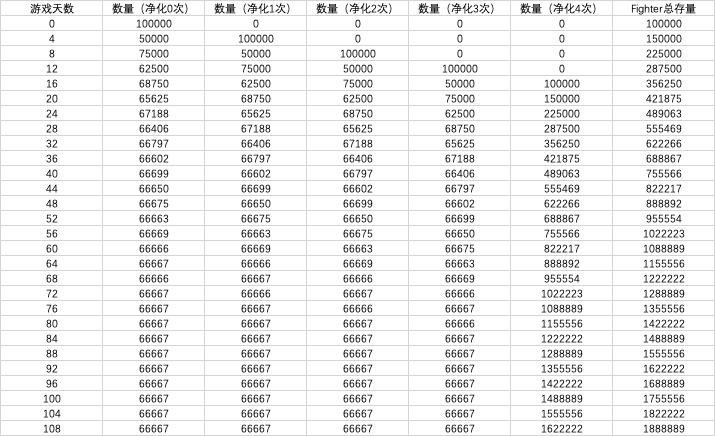
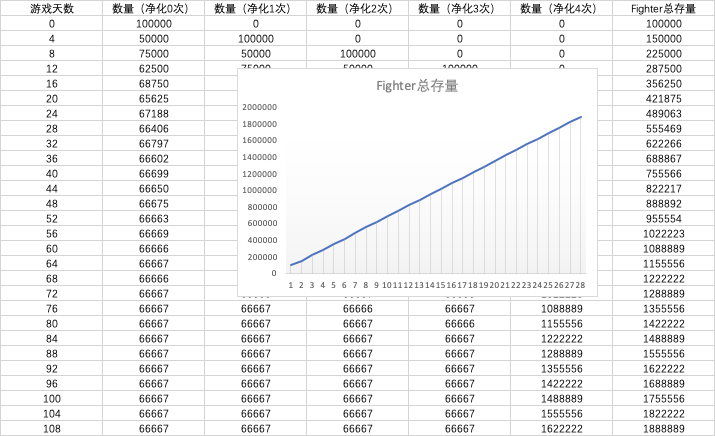
GitBook: [master] 7 pages and 21 assets modified

Changed region(s): [[0.3385, 0.1491, 0.8308, 0.6858], [0.5538, 0.2385, 0.5846, 0.4174]]

diff --git a/tokenomics/wan-jia-hui-bao-tui-yan.md b/tokenomics/wan-jia-hui-bao-tui-yan.md
@@ -1,6 +1,6 @@
 # 玩家回报推演
 
-本小节会基于上述静态经济模型来对玩家的投资回报率和回报周期进行评估推演。在推演之前，需要先对游戏中可能出现的玩家特性进行一些分类设定，以方便理解后文。
+本小节会基于上述静态和动态经济模型对玩家的投资回报率和回报周期进行评估推演。在推演之前，需要先对游戏中可能出现的玩家特性进行一些分类设定，以方便理解后文。
 
 ## 玩家设定
 
@@ -14,7 +14,7 @@
 
 ### 商人——套利者
 
-商人一般不会进行过于繁重的手动劳动，只交易市场进行Fighter和僵尸的交易，利用信息差获得利益空间。初始投资可高可低，由于没有付出和矿工一致的劳动，因此在币价稳定器的投资回报率不如矿工。但是，当币价不稳时，他们的投资回报率会非常高。
+商人一般不会进行过于繁重的手动劳动，只进行繁殖和在市场内进行Fighter和僵尸的交易，并利用信息差获得利益空间。初始投资可高可低，由于没有付出和矿工一致的劳动，因此在币价稳定器的投资回报率不如矿工。但是，当币价不稳时，他们的投资回报率会非常高。
 
 ### 老板
 
@@ -23,6 +23,16 @@
 ### 游戏公会——矿场
 
 优质的GameFi离不开游戏公会的加持。游戏公会通过整合大量的矿工资源，通过经验积累和信息差来提升公会内矿工的平均收益从而产生价值。普通矿工的效率提升点大部分由游戏公会带来。矿工不适合单打独斗，加入公会会更好的提升整体效率。
+
+### 收藏家
+
+由于游戏本身规则使得NFT具备独特性和稀有性，因此游戏中会存在只对稀有性而非功能性感兴趣的玩家，他们对独特的NFT进行投资、持有和交易。
+
+收藏家类玩家与传统游戏中的鲸鱼用户特性类似，他们是大量外部资金源源不断进入游戏生态的保证。通过自由交易，可以对游戏生态中的玩家进行财富再分配。
+
+而收藏家们的投资回报率受到游戏本身生态的制约，若以上几种基础玩家投资回报率有保证，并且游戏生态健全，则会增加此部分的投资回报率。
+
+## 回报推演
 
 ### 具体收益设定
 
@@ -35,13 +45,106 @@
 | PVP竞技类玩法 | 多 | 60 | 0 | 30-60 |
 | 总计 |  | 90 | 30 | 60-90 |
 
-## 回报推演
+### 单变量设定
 
-初期（复苏期）
+根据上述动态模型，我们将针对游戏的不同经济周期内分别进行回报推演。由于受到经济周期特性的影响，游戏内的资产价格也会变化，共有这几种不同的情况：
 
-假设Token发行价格为
+1. Fighter价格低位，僵尸和token价格低位
+2. Fighter价格高位，僵尸和token价格低位
+3. Fighter价格高位，僵尸和token价格高位
 
+结合其他游戏以往经验和我们的币价控制策略，将不同游戏资产价格的变化区间设定为：
 
+| 设定 | Fighter价格 | 僵尸价格 | Token价格 |
+| :--- | :--- | :--- | :--- |
+| 悲观价格（也是初始价格） | $10 | $1 | $0.08 |
+| 乐观价格 | $500 | $20 | $1.6 |
+
+### 初期（复苏期）
+
+此时没有很多玩家加入游戏，各种游戏资产的价格都很低，此时的回报特别丰厚，但持续时间会非常短。具体推演如下：
+
+![](../.gitbook/assets/image%20%2824%29.png)
+
+游戏初期是生产者的天下，商人并无太多用武之地。并且由于商人只进行日常任务、繁殖和交易，因此这里假设的收入仅是挂机收入+繁殖收入，因此看上去回报率并没有如此“惊人“。
+
+不过，商人可以根据信息差进行套利，实际收益会高过此处推演。并且由于无需进行手工生产，商人可以掌管更多游戏账号，获得更大的资金规模。
+
+### 扩张期
+
+由于初期的收益率很高，吸引大量玩家加入游戏，而每个入场玩家都需要在市场中购买Fighter，因此Fighter价格首先升高，Fighter价格的升高同时带动了僵尸的需求。此时收益变化如下：
+
+![](../.gitbook/assets/image%20%2825%29.png)
+
+此时的纯挂机类玩家由于生产效率低，已经没有优势了,而具备高效生产能力的矿工则是游戏世界的生产主导。而商人也开始发挥重大优势。
+
+### 滞涨期和衰退期
+
+滞涨期可以视作衰退期的前兆，因此可以合并来看。
+
+该时期可以被视为游戏的高潮，新玩家不断涌入，各类资产价格全部进入最高位。但是，由于玩家不断涌入，慢慢的导致僵尸数量供大于求，价格便开始回落。而僵尸价格回落也会制约Fighter价格的增加。此时期会有个较长的跨度，不断的在增长和滞涨期间波动。
+
+滞涨期的最高收益率推演：
+
+![](../.gitbook/assets/image%20%2829%29.png)
+
+待各类资产价格回落后，各类玩家的回报率会急剧降低。
+
+![](../.gitbook/assets/image%20%289%29.png)
+
+对于老板型玩家来说，投资回报率略低于打工型玩家，而游戏公会则会普遍提高打工型玩家的收益率，此处不再进行具体推演。
+
+## 推演总结
+
+结合推演结果，我们发现传统经济周期的问题是，如果衰退期的价格下降节奏过快，那么很容易导致整套循环进行不下去而使游戏彻底结束。而这个价格下降节奏是很难被干预和控制的，尤其是在这个去中心化、受到玩家投票治理的GameFi生态中。
+
+### **为什么衰退节奏无法被控制？**
+
+在衰退期价格下降的过程中，存量玩家会面临囚徒困境。
+
+尽管所有人都知道，如果大家都不抛售，那么这个经济循环最终会使所有人受益，包括自己。但是，如果其他人不抛售自己抛售，则自己不仅在之后的经济循环中受益，同时在本次的市场衰退中也不会受到波及。于是，玩家很容易得出这个结论：
+
+* 如果自己抛售而别人不抛售，则自己就能在全部情况下都利益最大化。
+* 如果自己抛售同时别人也抛售，那么只要我抛售的足够快，就会比别人损失更少。
+
+毫无疑问，所有人都会选择最糟糕的选择：尽快抛售。抛售速度会远远快过项目开发方的决策或玩家治理投票所作的决策。因此，衰退的节奏无法被完美控制。
+
+在现实世界中，经济危机总会被慢慢地痛苦度过，整体经济仍然可以慢慢恢复。但是，当危机范围缩小到一个单独的游戏时，这就会使游戏的经济变得及其脆弱。只要新玩家进入节奏无法抵消衰退节奏，整个游戏就会面临崩溃。
+
+正因为如此，新玩家增长率成为了游戏经济体系的最关键变量，经济循环的主要驱动力来自新进入玩家的需求，于是游戏经济变得脆弱。
+
+### **如何解决问题？**
+
+本项目希望通过以下两个个措施互相作用，来增强通证经济的健壮性：
+
+* 措施1：通过“锦标赛”玩法来获得更健全的通证产出与回收机制，使经济周期与新玩家的涌入脱钩。
+* 措施2：将Fighter NFT价值与游戏功能脱钩，为通证赋予长期价值。
+
+首先是增加**锦标赛**玩法。此玩法主要用来平衡老玩家和新玩家对资源需求量差距太大的问题。
+
+在同类GameFi游戏中，存量玩家为什么对通证资源需求量越来越少？主要原因是，随着游戏进度提升，玩家生产率会按照数值进行提升而非比例提升。玩家提升生产力的速度越来越慢，但是付出的努力却越来越多。于是，存量玩家对资源的需求量便越来越少。
+
+因此，我们设计了锦标赛玩法，其规则是：游戏会定期举办活动，活动要求所有玩家分为多个小组进行**组内比拼**，比拼的内容是在活动期间努力提升自己的算力，最后根据活动期间**算力提升数值**的组内排名来空投不同程度的**稀有奖励**。
+
+这个规则会达成3种效果：
+
+1. 避免马太效应。 只关心玩家在活动期间的算力变化而无视之前的积累，这会使老玩家与新玩家在同一起跑线上进行公平竞争，避免强者恒强的马太效应。新玩家只要努力，也有机会获得和老玩家一样的高级奖励，确保了新玩家的投资回报节奏，从而吸引新玩家不断进入。
+2. 增加存量玩家需求。 由于稀有奖励足够吸引人，且锦标赛比拼的是算力提升数值而非比例，那么老玩家只要在此期间适当的努力，即可获得稀有奖励，此奖励比其他的游戏功能产出更高。如何提升自己的排名呢？赶快在活动期间内购买NFT资产吧！因此增加了老玩家对生产资料的需求量。
+3. 平稳度过衰退期。 此玩法在衰退期开展的效果会优于扩张期和滞涨期，因为她确保了老玩家的需求。即便衰退期有可能无法吸引过多新玩家，单纯依靠存量玩家也足够使周期不断循环下去，增加了游戏的抗脆弱性。
+
+解决了游戏循环与新玩家进入强关联的问题后，再来看看如何为通证赋予长期价值。
+
+## **通证的长期价值**
+
+尽管我们不希望游戏循环与新玩家进入强绑定，但新玩家入场的好处是无需讨论的。源源不断的新玩家入场将壮大整个社区、维持经济体系健康、顺利度过衰退期以及放大扩张期效果。而新玩家自然更关注通证的长期价值，有了长期价值才有更稳定的投资回报率。没有长期价值的通证可被视为“空气币”，最终都会遭到淘汰。
+
+在上文[卡牌设计](../art/card-design.md)章节描述的“NFT形象与功能脱钩”措施可以赋予通证长期价值，因为：
+
+* NFT足够多的变化可以造成NFT的唯一性和稀缺性，并且不和能力相关仅以玩家审美和喜好决定其价值。于是和某个具体应用脱钩，提供了自由度。
+* NFT提供的自由度使得玩家社区的二次创作空间大幅提升，并且项目方通过社区激励手段鼓励玩家进行二次创作。在社区积累了众多第三方应用之后，便逐渐形成元宇宙级别的平台。而所有的第一方第三方应用全部使用$Zom通证，赋予了通证的长期使用价值。
+* 容易将玩家进行区分，分为只关注算力的淘金者和关注升值潜力的收藏家，不同投资者都能构成自循环，挖掘了投资深度。
+
+以上便是本项目如何依靠基础通证经济循环+独创的两个脱钩共同作用，提升游戏经济健壮性的全部设计思路。
 
 
 

diff --git a/tokenomics/tokenomics-thinking.md b/tokenomics/tokenomics-thinking.md
@@ -22,53 +22,5 @@
 
 此时产能仍然是过剩的，并且存量玩家对Fighter需求下降，因此也导致对僵尸的需求下降，进而导致Fighter NFT和僵尸NFT价格双双回落。如果价格下降的节奏是合理的，则这个投资周期会回到复苏期重新开始新一轮的循环。
 
-这里的问题是，如果衰退期的价格下降节奏过快，那么很容易导致整套循环进行不下去而使游戏彻底结束。而这个价格下降节奏是很难被干预和控制的，尤其是在这个去中心化、受到玩家投票治理的GameFi生态中。
-
-## **为什么衰退节奏无法被控制？**
-
-在衰退期价格下降的过程中，存量玩家会面临囚徒困境。
-
-尽管所有人都知道，如果大家都不抛售，那么这个经济循环最终会使所有人受益，包括自己。但是，如果其他人不抛售自己抛售，则自己不仅在之后的经济循环中受益，同时在本次的市场衰退中也不会受到波及。于是，玩家很容易得出这个结论：
-
-* 如果自己抛售而别人不抛售，则自己就能在全部情况下都利益最大化。
-* 如果自己抛售同时别人也抛售，那么只要我抛售的足够快，就会比别人损失更少。
-
-毫无疑问，所有人都会选择最糟糕的选择：尽快抛售。抛售速度会远远快过项目开发方的决策或玩家治理投票所作的决策。因此，衰退的节奏无法被完美控制。
-
-在现实世界中，经济危机总会被慢慢地痛苦度过，整体经济仍然可以慢慢恢复。但是，当危机范围缩小到一个单独的游戏时，这就会使游戏的经济变得及其脆弱。只要新玩家进入节奏无法抵消衰退节奏，整个游戏就会面临崩溃。
-
-正因为如此，新玩家增长率成为了游戏经济体系的最关键变量，经济循环的主要驱动力来自新进入玩家的需求，于是游戏经济变得脆弱。
-
-## **如何解决问题？**
-
-本项目希望通过以下两个个措施互相作用，来增强通证经济的健壮性：
-
-* 措施1：通过“锦标赛”玩法来获得更健全的通证产出与回收机制，使经济周期与新玩家的涌入脱钩。
-* 措施2：将Fighter NFT价值与游戏功能脱钩，为通证赋予长期价值。
-
-首先是增加**锦标赛**玩法。此玩法主要用来平衡老玩家和新玩家对资源需求量差距太大的问题。
-
-在同类GameFi游戏中，存量玩家为什么对通证资源需求量越来越少？主要原因是，随着游戏进度提升，玩家生产率会按照数值进行提升而非比例提升。玩家提升生产力的速度越来越慢，但是付出的努力却越来越多。于是，存量玩家对资源的需求量便越来越少。
-
-因此，我们设计了锦标赛玩法，其规则是：游戏会定期举办活动，活动要求所有玩家分为多个小组进行**组内比拼**，比拼的内容是在活动期间努力提升自己的算力，最后根据活动期间**算力提升数值**的组内排名来空投不同程度的**稀有奖励**。
-
-这个规则会达成3种效果：
-
-1. 避免马太效应。 只关心玩家在活动期间的算力变化而无视之前的积累，这会使老玩家与新玩家在同一起跑线上进行公平竞争，避免强者恒强的马太效应。新玩家只要努力，也有机会获得和老玩家一样的高级奖励，确保了新玩家的投资回报节奏，从而吸引新玩家不断进入。
-2. 增加存量玩家需求。 由于稀有奖励足够吸引人，且锦标赛比拼的是算力提升数值而非比例，那么老玩家只要在此期间适当的努力，即可获得稀有奖励，此奖励比其他的游戏功能产出更高。如何提升自己的排名呢？赶快在活动期间内购买NFT资产吧！因此增加了老玩家对生产资料的需求量。
-3. 平稳度过衰退期。 此玩法在衰退期开展的效果会优于扩张期和滞涨期，因为她确保了老玩家的需求。即便衰退期有可能无法吸引过多新玩家，单纯依靠存量玩家也足够使周期不断循环下去，增加了游戏的抗脆弱性。
-
-解决了游戏循环与新玩家进入强关联的问题后，再来看看如何为通证赋予长期价值。
-
-## **通证的长期价值**
-
-尽管我们不希望游戏循环与新玩家进入强绑定，但新玩家入场的好处是无需讨论的。源源不断的新玩家入场将壮大整个社区、维持经济体系健康、顺利度过衰退期以及放大扩张期效果。而新玩家自然更关注通证的长期价值，有了长期价值才有更稳定的投资回报率。没有长期价值的通证可被视为“空气币”，最终都会遭到淘汰。
-
-在上文[卡牌设计](../art/card-design.md)章节描述的“NFT形象与功能脱钩”措施可以赋予通证长期价值，因为：
-
-* NFT足够多的变化可以造成NFT的唯一性和稀缺性，并且不和能力相关仅以玩家审美和喜好决定其价值。于是和某个具体应用脱钩，提供了自由度。
-* NFT提供的自由度使得玩家社区的二次创作空间大幅提升，并且项目方通过社区激励手段鼓励玩家进行二次创作。在社区积累了众多第三方应用之后，便逐渐形成元宇宙级别的平台。而所有的第一方第三方应用全部使用$Zom通证，赋予了通证的长期使用价值。
-* 容易将玩家进行区分，分为只关注算力的淘金者和关注升值潜力的收藏家，不同投资者都能构成自循环，挖掘了投资深度。
-
-以上便是本项目如何依靠基础通证经济循环+独创的两个脱钩共同作用，提升游戏经济健壮性的全部设计思路。
+## \*\*\*\*
 

diff --git a/gameplay/tu-bian.md b/gameplay/tu-bian.md
@@ -12,21 +12,29 @@
 
 随着项目开发进程，具备突变特性的AVATAR形象基因正在逐渐增加中。在未来，每个AVATAR形象都有一个完全对应的突变AVATAR形象。例如：某个AVATAR被命名为MrWhite，这个AVATAR突变后会被命名为Heisenberg。
 
-### 一个极端的突变例子
+### 一个完美基因情况下的突变例子
 
-协作者1的P、H1、H2、H3位基因全部相同，都是MrWhite，而协作者2的全部基因位也都是MrWhite，那么，若没有突变设定，则新Fighter会100%继承MrWhite基因。但净化车间的不稳定造成了突变，因此全新Fighter有75%的几率继承MrWhite，有25%的几率突变为Heisenberg。
+协作者1的P、H1、H2、H3位AVATAR基因全部相同，都是MrWhite，而协作者2的全部AVATAR基因位也都是MrWhite，那么——若没有突变设定——则新Fighter会100%继承MrWhite基因。但净化车间的不稳定有25%的几率造成突变，因此全新Fighter有75%的几率未突变，仍然继承MrWhite，25%的几率突变为Heisenberg。
 
-但是，实际的突变几率将会低于25%。因为双方协作者的8个基因位全部相同的几率太低了。
+但是，实际的突变几率将会低于25%。因为双方协作者的8个基因位全部相同的几率实在是太低了。
 
-### 另一个正常突变例子
+### 另一个正常几率的突变例子
 
-协作者1和2并非全部8个基因位都相同，而是双方只有P基因位相同，是MrWhite，那么，新Fighter突变为Heisenberg的几率是：
+假如协作者1和2并非全部8个基因位都相同，而是双方只有P基因位相同，是MrWhite。那么，新Fighter突变为Heisenberg的几率是：
 
 > 75% \* 75% \* 25% = 14%
 
 ### 一个极低几率的突变例子
 
-协作者1和2只有H3基因位是MrWhite，那么新Fighter突变为Heisenberg的几率是：
+假如协作者1和2只有H3基因位是MrWhite，那么新Fighter突变为Heisenberg的几率是：
 
 > 1.6% \* 1.6% \* 25% = 0.0064%
+
+## 突变效果
+
+突变会使新Fighter的形象发生改变，并且与突变之前的形象有一定关联，如图：
+
+![&#x56FE;&#xFF1A;&#x6B63;&#x5E38;AVATAR&#x4E0E;&#x7A81;&#x53D8;&#x540E;AVATAR](../.gitbook/assets/1.png)
+
+另外，突变后的形象也可以继续发生突变，目前只制作了1层突变形象，最终版本会为某些形象制作最多4层突变形象4层突变形象，会成为游戏中最稀有的NFT资产。
 

diff --git a/tokenomics/jing-tai-jing-ji-mo-xing.md b/tokenomics/jing-tai-jing-ji-mo-xing.md
@@ -36,17 +36,15 @@
 
 并且，在IDO时项目方会向市场发行5000名创世纪Fighter，因此：
 
-![](../.gitbook/assets/image%20%2810%29.png)
+![](../.gitbook/assets/image%20%2813%29.png)
 
-![](../.gitbook/assets/image%20%2811%29.png)
+![](../.gitbook/assets/image%20%2817%29.png)
 
-可以看出，游戏里的Fighter总存量是根据总时间线性成长的，与玩家数量无关。
+可以看出，游戏里的Fighter总存量是根据总时间线性成长的，与玩家数量无关。将游戏中的Fighter存量设计为线性增长，主要提供三个好处：
 
-## 总结
-
-根据以上静态经济循环，可以得到以下结论：
-
-若玩家增多，则僵尸产量增多，而Fighter产量并不随之增加，则玩家对Fighter需求强烈，造成Fighter价格上涨。
+1. Fighter线性增长的特性与重新设计过的动态经济模型匹配，使游戏生态更平稳的渡过衰退期，下文详述。
+2. 线性增长，也意味着资产不会随着玩家进入而通胀，维持平稳状态。
+3. 使稀有NFT的价值维持稳定，满足收藏类鲸鱼用户的需求。
 
 
 

diff --git a/art/avatar-design.md b/art/avatar-design.md
@@ -12,7 +12,7 @@
 
 在目前已完成的340+Fighter形象的基础上，我们为其中一部分Fighter Avatar再次设计了稀有的突变后形象，突变形象可以认为是普通形象的全新进化。
 
-![&#x56FE;&#xFF1A;&#x6B63;&#x5E38;AVATAR&#x4E0E;&#x53D8;&#x5F02;&#x540E;AVATAR](../.gitbook/assets/1.png)
+![&#x56FE;&#xFF1A;&#x6B63;&#x5E38;AVATAR&#x4E0E;&#x7A81;&#x53D8;&#x540E;AVATAR](../.gitbook/assets/1.png)
 
 有关AVATAR突变的详细规则，见：
 

diff --git a/SUMMARY.md b/SUMMARY.md
@@ -26,8 +26,8 @@
 
 ## 通证经济设计 <a id="tokenomics"></a>
 
-* [动态经济模型](tokenomics/tokenomics-thinking.md)
 * [静态经济模型](tokenomics/jing-tai-jing-ji-mo-xing.md)
+* [动态经济模型](tokenomics/tokenomics-thinking.md)
 * [玩家回报推演](tokenomics/wan-jia-hui-bao-tui-yan.md)
 * [通证功能](tokenomics/token-feature.md)
 * [通证分配](tokenomics/token-sale.md)

diff --git a/tokenomics/token-sale.md b/tokenomics/token-sale.md
@@ -45,8 +45,8 @@ $Zom通证总发行量：100M
 
 | 发售轮次 | 盲盒总量 | 盲盒单价 | USD总价 |
 | :---: | :---: | :---: | :---: |
-| 非公开发售 | 80000 | $4 | $0,000 |
-| 公开发售 | 20000 | $10 | $10,000 |
+| 非公开发售 | 80000 | $1 | $320,000 |
+| 公开发售 | 20000 | $10 | $200,000 |
 
 
 
